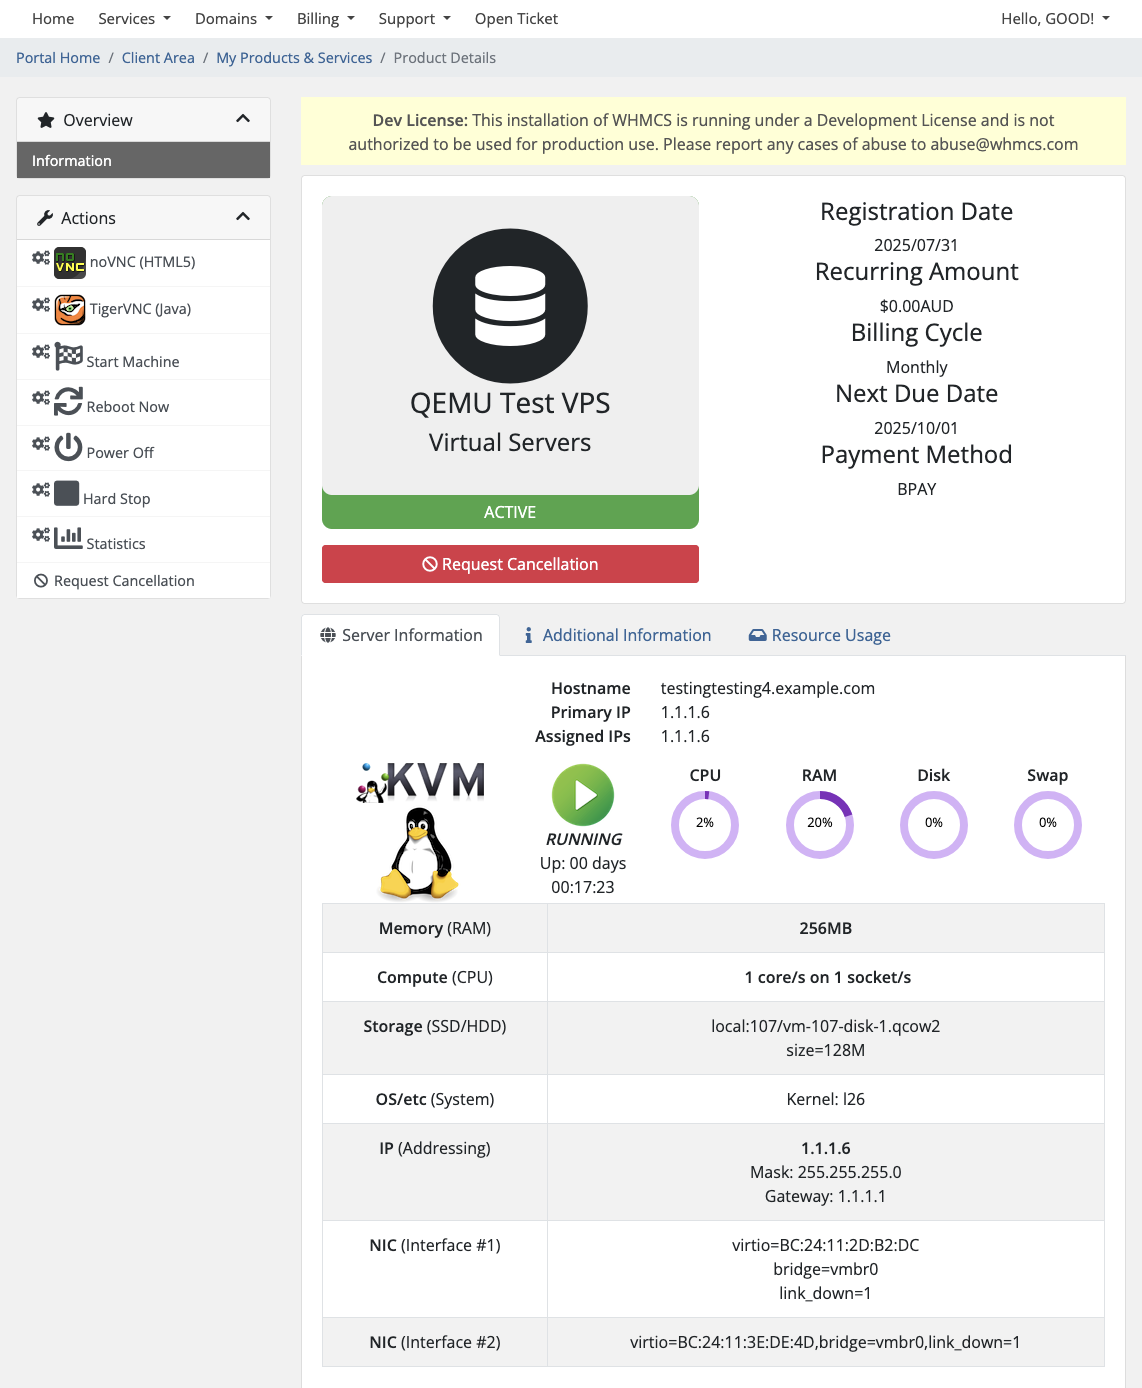
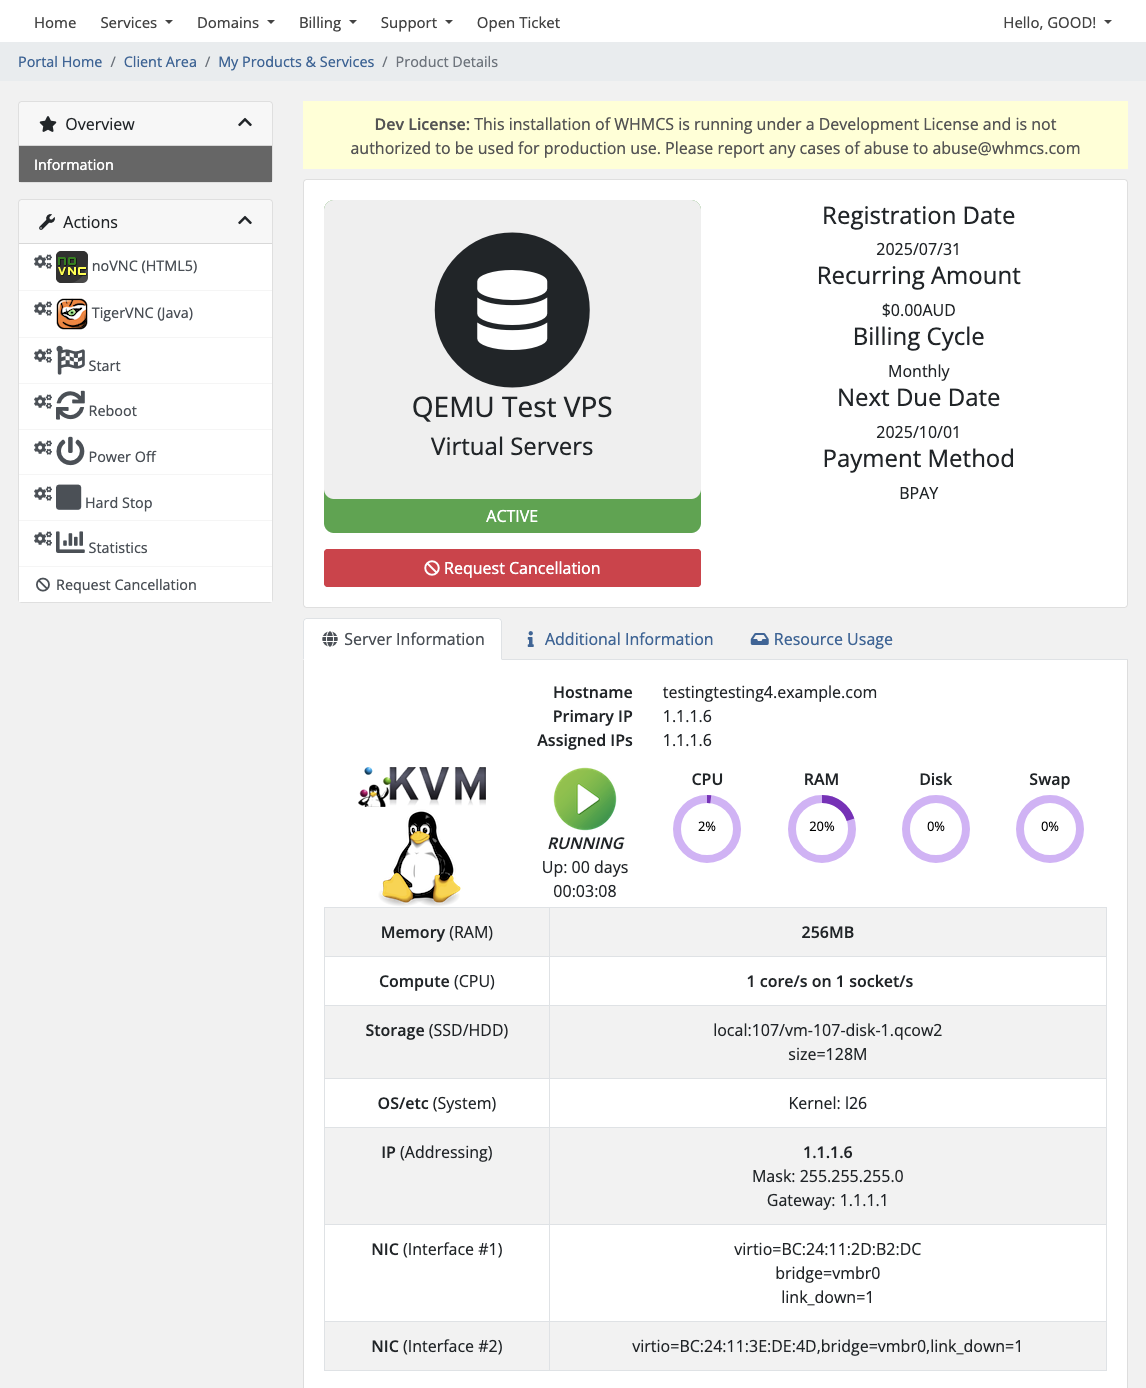
Improve labels for power actions

diff --git a/modules/servers/pvewhmcs/pvewhmcs.php b/modules/servers/pvewhmcs/pvewhmcs.php
@@ -880,8 +880,8 @@ function pvewhmcs_ClientAreaCustomButtonArray() {
 	$buttonarray = array(
 		"<img src='./modules/servers/pvewhmcs/img/novnc.png'/> noVNC (HTML5)" => "noVNC",
 		"<img src='./modules/servers/pvewhmcs/img/tigervnc.png'/> TigerVNC (Java)" => "javaVNC",
-		"<i class='fa fa-2x fa-flag-checkered'></i> Start Machine" => "vmStart",
-		"<i class='fa fa-2x fa-sync'></i> Reboot Now" => "vmReboot",
+		"<i class='fa fa-2x fa-flag-checkered'></i> Start" => "vmStart",
+		"<i class='fa fa-2x fa-sync'></i> Reboot" => "vmReboot",
 		"<i class='fa fa-2x fa-power-off'></i> Power Off" => "vmShutdown",
 		"<i class='fa fa-2x fa-stop'></i>  Hard Stop" => "vmStop",
 		"<i class='fa fa-2x fa-chart-bar'></i>  Statistics" => "vmStat",
